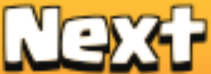
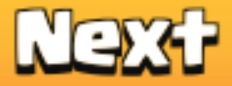
feat: improve matchmaking and loot detection for high-resolution displays
- Update 'Next' button template for better reliability.
- Refine state detection rules for matchmaking and clouds.
- Implement resolution-independent loot anchor scaling.
- Fix missing context import in main.go.

diff --git a/internal/bot/bot.go b/internal/bot/bot.go
@@ -360,26 +360,21 @@ func (b *Bot) executeAttackSequence(gc *game.GameContext) {
 			break
 		}
 
-		b.logger.Info().Msg("loot too low, skipping base...")
+		b.logger.Info().
+			Int("req_gold", b.cfg.Search.MinLootGold).
+			Int("req_elixir", b.cfg.Search.MinLootElixir).
+			Int("req_de", b.cfg.Search.MinLootDarkElixir).
+			Msg("loot too low, skipping base...")
 
-		nextTpl, ok := b.templates.Get("btn_next")
-		if ok {
-			pt, conf, err := vision.MatchTemplateBest(screen, nextTpl, 0.7)
-			if err == nil && conf > 0.7 {
-				b.logger.Info().Float64("confidence", conf).Msg("clicking 'Next' button template")
-				b.client.Tap(pt.X, pt.Y)
-			} else {
-				b.logger.Warn().Msg("could not find 'Next' button template, using fallback coordinates")
-				nextX, nextY := b.cal.ScaleRef(770, 560)
-				b.client.Tap(nextX, nextY)
-			}
-		} else {
-			b.logger.Warn().Msg("'btn_next' template not found, using fallback coordinates")
+		screen.Close() // Close before findAndClick which does its own capture
+
+		if !b.findAndClick("btn_next", "Next Match", 3) {
+			b.logger.Warn().Msg("could not find 'Next' button, using fallback coordinates")
 			nextX, nextY := b.cal.ScaleRef(770, 560)
 			b.client.Tap(nextX, nextY)
 		}
 
-		screen.Close()
+		// Wait for next base to load
 		time.Sleep(3 * time.Second)
 	}
 

diff --git a/internal/game/classifier.go b/internal/game/classifier.go
@@ -170,11 +170,13 @@ func (c *Classifier) buildRules() {
 			State:    StateBattle,
 			Priority: 90,
 			Weight:   90,
-			Desc:     "live battle - end battle button",
+			Desc:     "matchmaking or live battle",
+			Template: "btn_next",
 			MinPass:  1,
 			Checks: []pixelCheck{
-				{50, 548, 0xD1, 0x0D, 0x0E, 15},
-				{50, 548, 0x5E, 0x06, 0x06, 15},
+				{100, 560, 0xCE, 0x0D, 0x0E, 25},  // End battle button (red)
+				{1206, 500, 0xFC, 0xBA, 0x36, 25}, // Next button (orange)
+				{40, 110, 0xFF, 0xEC, 0x4A, 25},   // Gold loot icon (yellow)
 			},
 		},
 		{
@@ -230,7 +232,9 @@ func (c *Classifier) buildRules() {
 			Desc:     "search map - clouds",
 			MinPass:  1,
 			Checks: []pixelCheck{
-				{430, 360, 0xFF, 0xFF, 0xFF, 20}, // Center should be bright in clouds
+				{430, 360, 0xFF, 0xFF, 0xFF, 30}, // Center
+				{200, 200, 0xEE, 0xF5, 0xFF, 30}, // Top left-ish
+				{600, 500, 0xEE, 0xF5, 0xFF, 30}, // Bottom right-ish
 				{56, 592, 0x0A, 0x22, 0x3F, 25},  // Search menu box
 			},
 		},

diff --git a/internal/game/loot.go b/internal/game/loot.go
@@ -121,8 +121,8 @@ func (lr *LootRecognizer) ReadAvailableLoot(screen gocv.Mat) (Resources, error) 
 	if searchROI.Max.X < 500 { searchROI.Max.X = 600 }
 
 	// 1. Find anchors sequentially to share scale and enforce vertical order
-	// This is very fast (single scale match for 2nd and 3rd icons)
-	_, goldY, goldScale, goldTextROI := lr.findAnchorAndROI(screen, "icon_gold", searchROI, -1, -1.0)
+	// Use calibration ScaleY as a hint (most CoC scaling is height-based)
+	_, goldY, goldScale, goldTextROI := lr.findAnchorAndROI(screen, "icon_gold", searchROI, -1, lr.cal.ScaleY)
 	_, elixirY, _, elixirTextROI := lr.findAnchorAndROI(screen, "icon_elixir", searchROI, goldY, goldScale)
 	_, _, _, deTextROI := lr.findAnchorAndROI(screen, "icon_de", searchROI, elixirY, goldScale)
 
@@ -177,10 +177,10 @@ func (lr *LootRecognizer) findAnchorAndROI(screen gocv.Mat, anchorName string, s
 
 	if scaleHint > 0 {
 		// Fast path: use pinned scale with tight range
-		matches, err = vision.MatchMultiScale(roi, anchor, scaleHint*0.99, scaleHint*1.01, 3, 0.45)
+		matches, err = vision.MatchMultiScale(roi, anchor, scaleHint*0.8, scaleHint*1.2, 5, 0.45)
 	} else {
-		// Full search
-		matches, err = vision.MatchMultiScale(roi, anchor, 0.7, 1.3, 12, 0.45)
+		// Full search - widen for high-res screens
+		matches, err = vision.MatchMultiScale(roi, anchor, 0.5, 5.0, 25, 0.45)
 	}
 
 	if err != nil || len(matches) == 0 {

diff --git a/main.go b/main.go
@@ -1,7 +1,7 @@
 package main
 
 import (
-	"flag"
+	"context"
 	"fmt"
 	"os"
 	"os/signal"